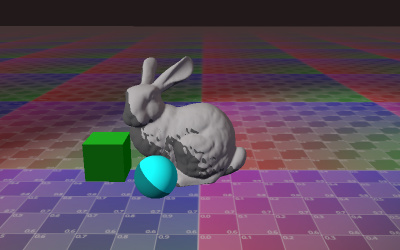
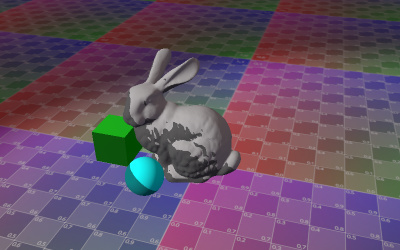
DoubleSide check.

diff --git a/examples/jsm/shaders/SSShadowShader.js b/examples/jsm/shaders/SSShadowShader.js
@@ -27,6 +27,7 @@ const SSRrShader = {
 		'cameraRange': { value: 0 },
 		'maxDistance': { value: 180 },
 		'surfDist': { value: .007 },
+		'doubleSideCheckStartFrom': { value: .01 },
 
 	},
 
@@ -61,6 +62,7 @@ const SSRrShader = {
 		uniform mat4 cameraInverseProjectionMatrix;
 		uniform float maxDistance;
 		uniform float surfDist;
+		uniform float doubleSideCheckStartFrom;
 		#include <packing>
 		float pointToLineDistance(vec3 x0, vec3 x1, vec3 x2) {
 			//x0: point, x1: linePointA, x2: linePointB
@@ -173,7 +175,12 @@ const SSRrShader = {
 				gl_FragColor=texture2D(tDiffuse,vUv);
 				if(hit){
 					vec3 vN=getViewNormal( uv );
-					if(dot(viewRefractDir,vN)>=0.) continue;
+
+					// if(dot(viewRefractDir,vN)>=0.) continue;
+
+					if((length(viewPosition-vP)<doubleSideCheckStartFrom)&&(dot(viewRefractDir,vN)>=0.)) continue;
+					// May not need "doubleSideCheckStartFrom", use "surfDist" or change starting "i" of "for(float i=1.;i<float(MAX_STEP);i++){" instead.
+
 					gl_FragColor.rgb*=.5;
 					return;
 				}

diff --git a/examples/webgl_postprocessing_ssshadow.html b/examples/webgl_postprocessing_ssshadow.html
@@ -33,7 +33,7 @@
 
 		const params = {
 			enableSSRr: true,
-			autoRotate: true,
+			autoRotate: false,
 		};
 		let composer;
 		let ssrrPass;
@@ -179,9 +179,10 @@
 
 			gui = new GUI();
 			gui.add( params, 'enableSSRr' ).name( 'Enable SSRr' );
-			gui.add( ssrrPass.lightPosition, 'x' ).min( 0 ).max( 10 ).step( .0001 );
-			gui.add( ssrrPass.lightPosition, 'y' ).min( 0 ).max( 10 ).step( .0001 );
-			gui.add( ssrrPass.lightPosition, 'z' ).min( 0 ).max( 10 ).step( .0001 );
+			gui.add( ssrrPass.lightPosition, 'x' ).name('lightX').min( 0 ).max( 10 ).step( .0001 );
+			gui.add( ssrrPass.lightPosition, 'y' ).name('lightY').min( 0 ).max( 10 ).step( .0001 );
+			gui.add( ssrrPass.lightPosition, 'z' ).name('lightZ').min( 0 ).max( 10 ).step( .0001 );
+			gui.add( ssrrPass, 'doubleSideCheckStartFrom' ).min( 0 ).max( .1 ).step( .0001 );
 			gui.add( params, 'autoRotate' ).onChange( () => {
 
 				controls.enabled = ! params.autoRotate;

diff --git a/examples/jsm/postprocessing/SSShadowPass.js b/examples/jsm/postprocessing/SSShadowPass.js
@@ -43,6 +43,7 @@ class SSRrPass extends Pass {
 		this.lightPosition = SSRrShader.uniforms.lightPosition.value;
 		this.maxDistance = SSRrShader.uniforms.maxDistance.value;
 		this.surfDist = SSRrShader.uniforms.surfDist.value;
+		this.doubleSideCheckStartFrom = SSRrShader.uniforms.doubleSideCheckStartFrom.value;
 
 		this.encoding = encoding;
 
@@ -229,6 +230,7 @@ class SSRrPass extends Pass {
 		this.ssrrMaterial.uniforms[ 'lightPosition' ].value = this.lightPosition;
 		this.ssrrMaterial.uniforms[ 'maxDistance' ].value = this.maxDistance;
 		this.ssrrMaterial.uniforms[ 'surfDist' ].value = this.surfDist;
+		this.ssrrMaterial.uniforms[ 'doubleSideCheckStartFrom' ].value = this.doubleSideCheckStartFrom;
 		this.renderPass( renderer, this.ssrrMaterial, this.ssrrRenderTarget );
 
 		// output result to screen
